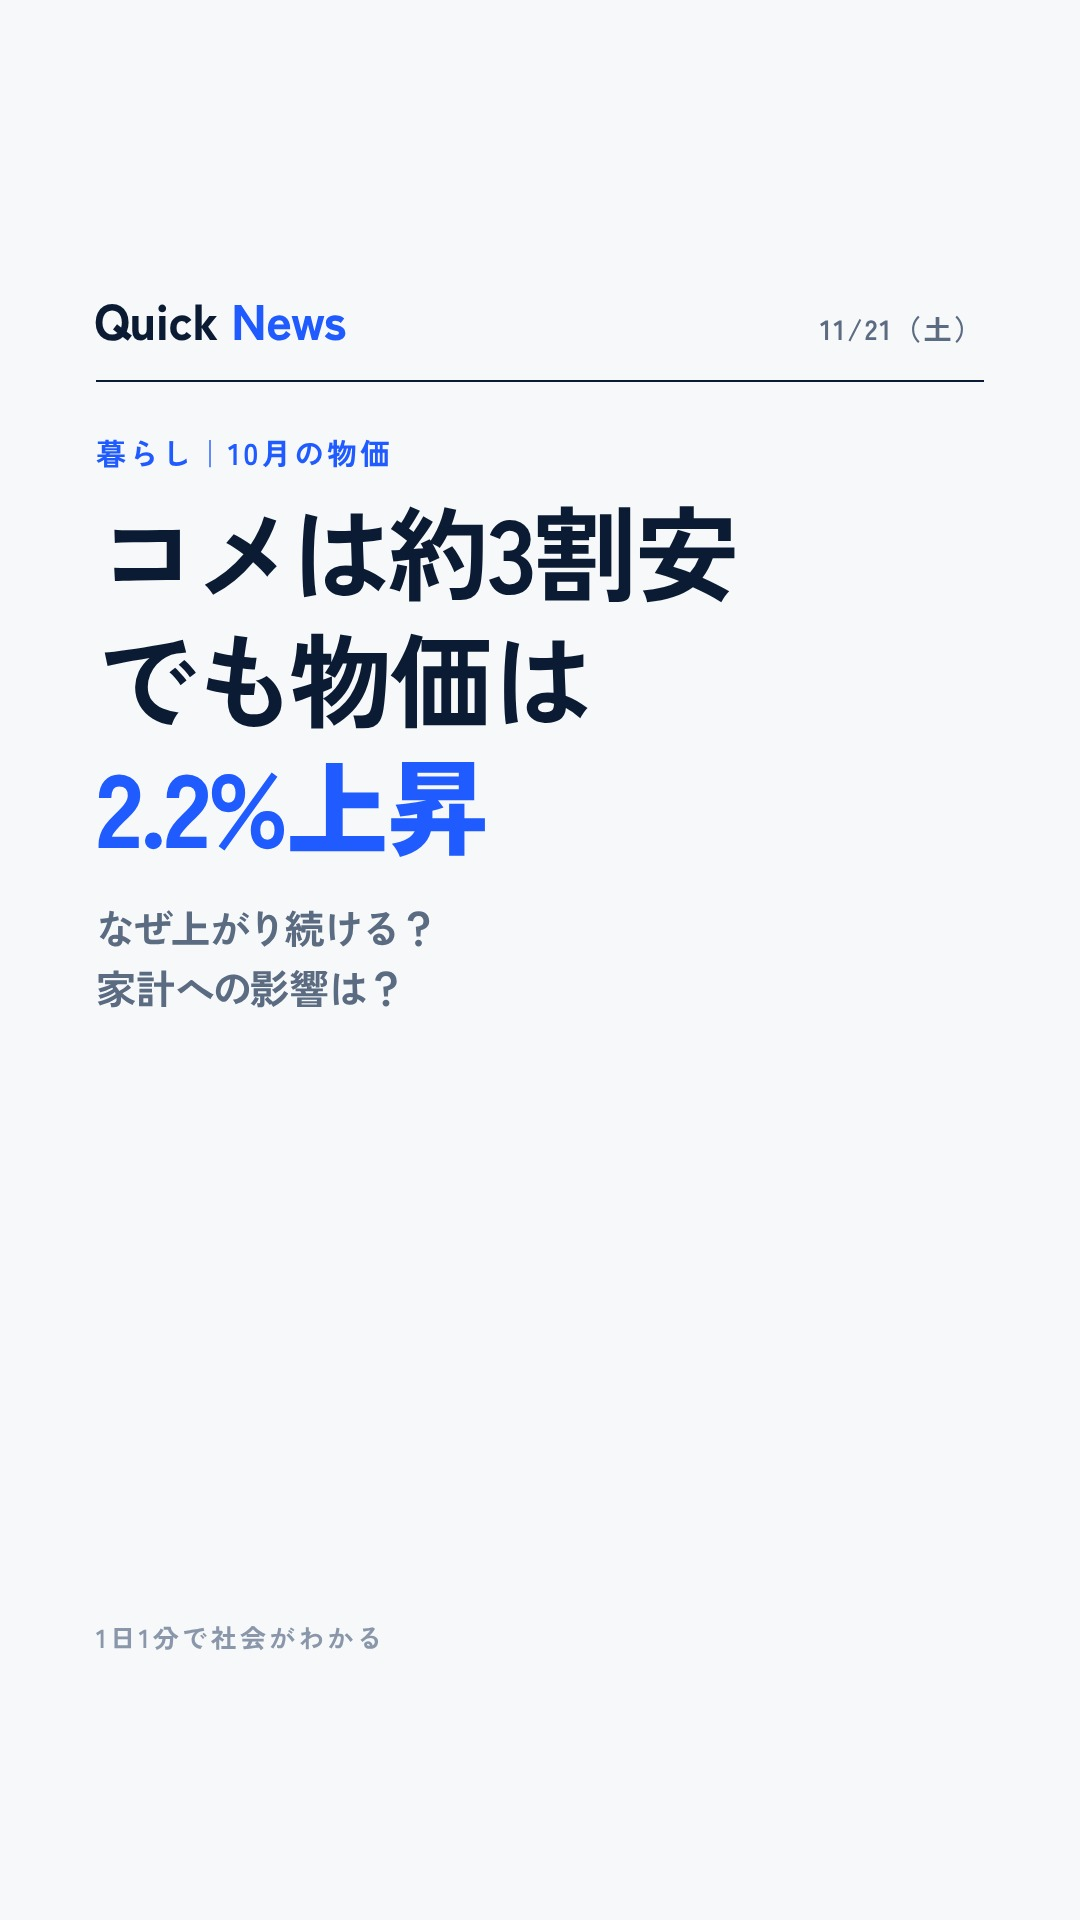
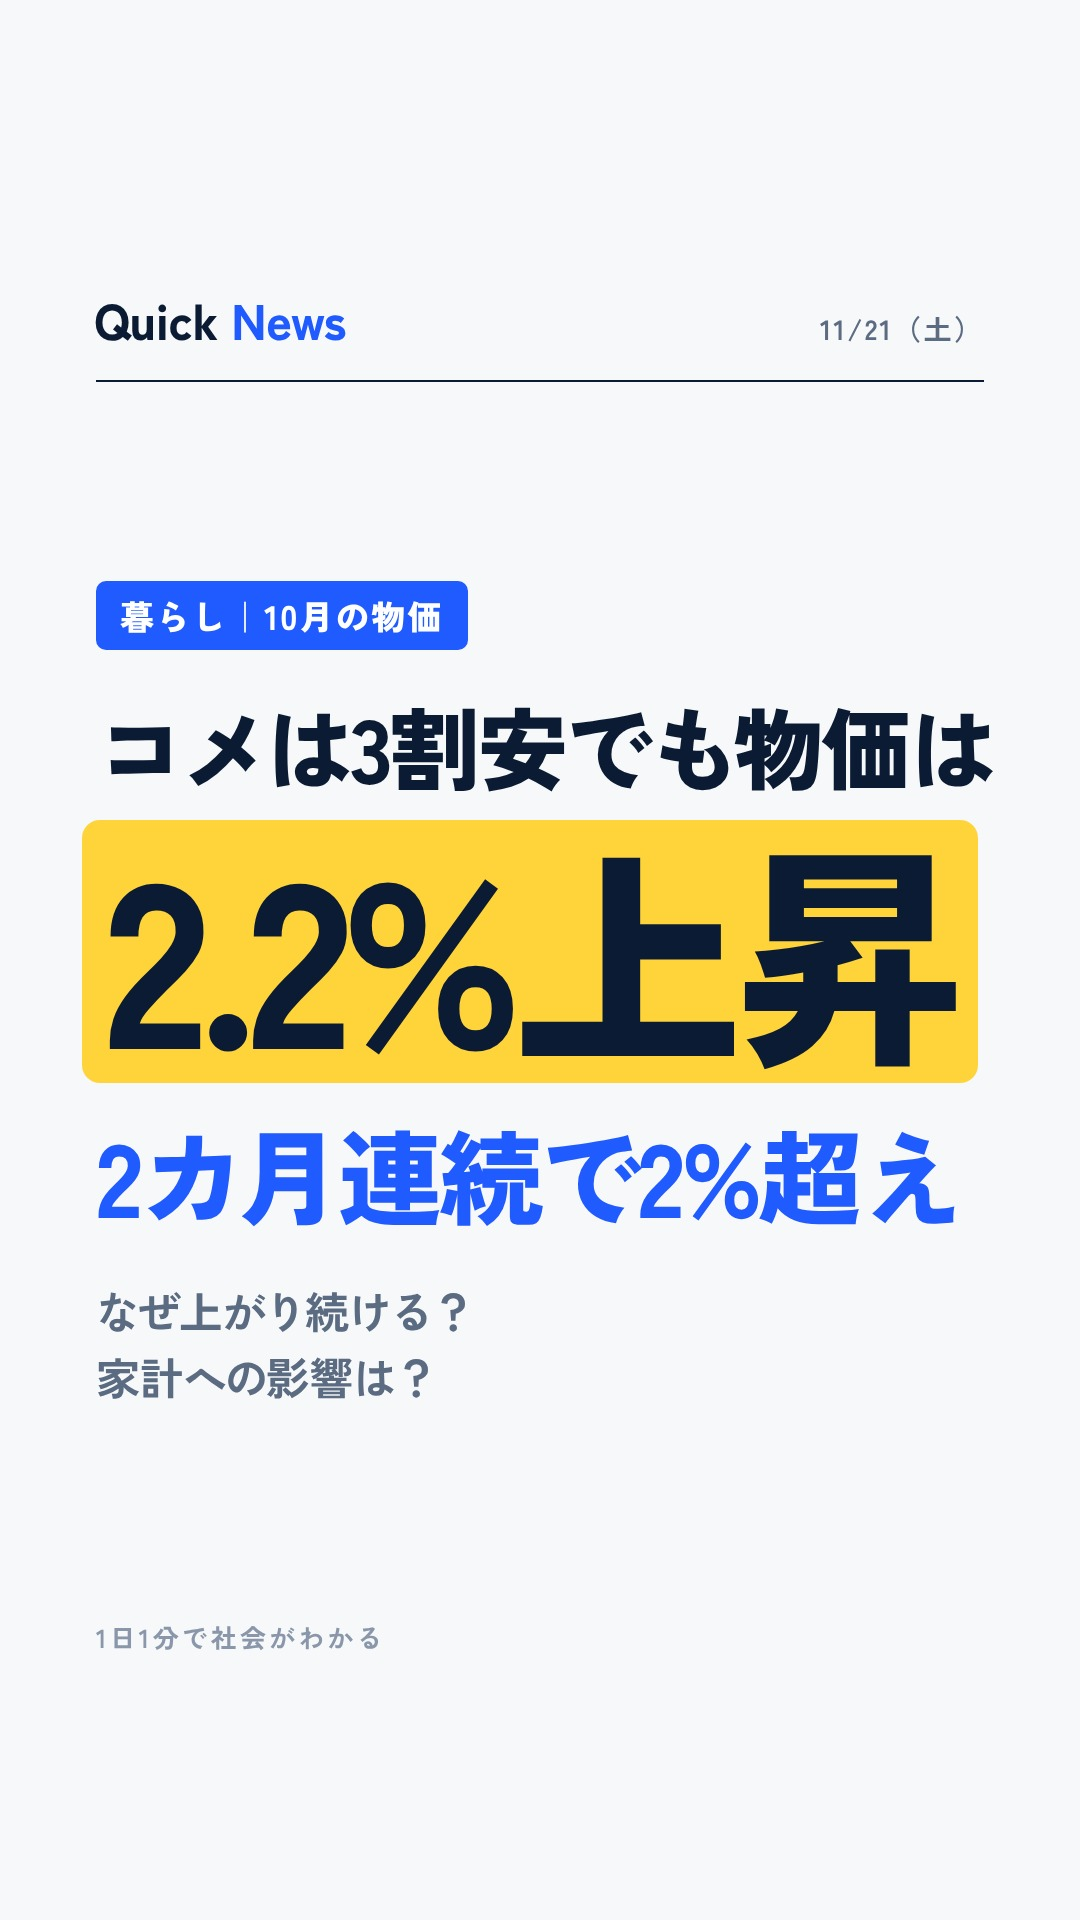
表紙を特大キーワード型に（cover.key：黄色の箱＋紺の文字）。2026-11-21 の3本の表紙を差し替え

Changed region(s): [[0.0611, 0.2188, 0.9167, 0.75]]

diff --git a/kit/tools/cover.py b/kit/tools/cover.py
@@ -48,7 +48,7 @@ body{{width:1080px;height:1920px;background:#F7F8FA;font-family:"Yu Gothic","Zen
 <div class="list">{rows}</div>
 <div class="ft">{esc(sc.get("tagline", "1日1分で社会がわかる"))}</div>
 </body></html>"""
-if single:   # 1本のニュースの表紙：大きな見出し＋補足の問い＋その話の地図
+if single and not sc["cover"].get("key"):   # 1本のニュースの表紙：大きな見出し＋補足の問い＋その話の地図
     cv = sc["cover"]
     lines = "".join(f'<span class="ln">{fmt(l)}</span>' for l in cv["title"].split("\n"))
     subl = "<br>".join(fmt(l) for l in cv.get("sub", "").split("\n"))
@@ -89,12 +89,40 @@ window.layoutMap=function(top,bottom){{const M={mp};if(!M)return;const svg=docum
   const t=ad('text',{{x:p[0],y:p[1]-34,'text-anchor':'middle','font-size':34,'font-weight':700,fill:'#0B1B33','font-family':'Zen Kaku Gothic New',stroke:'#F7F8FA','stroke-width':9,'paint-order':'stroke','stroke-linejoin':'round'}});t.textContent=l;}});
 }};
 </script></body></html>"""
+if single and sc["cover"].get("key"):   # 2026-11-21〜：重要な語を特大で（黄色の箱に紺の文字）。一覧の小さな表示でも読める
+    cv = sc["cover"]
+    subl = "<br>".join(fmt(l) for l in cv.get("sub", "").split("\n"))
+    page = f"""<!doctype html><html><head><meta charset="utf-8">{fl}<style>
+*{{margin:0;padding:0;box-sizing:border-box}}
+body{{width:1080px;height:1920px;background:#F7F8FA;font-family:"Yu Gothic","Zen Kaku Gothic New",sans-serif;color:#0B1B33;position:relative;overflow:hidden}}
+.top{{position:absolute;left:96px;right:96px;top:282px;display:flex;align-items:baseline;justify-content:space-between;padding-bottom:26px;border-bottom:2px solid #0B1B33}}
+.logo{{font-size:50px;font-weight:900;letter-spacing:-.01em;margin-left:-2px}}
+.logo i{{font-style:normal;color:#1F5BFF}}
+.dt{{font-size:28px;font-weight:700;letter-spacing:.08em;color:#5B6B82}}
+.wrap{{position:absolute;left:96px;right:96px;top:420px}}
+.lb{{display:inline-block;font-size:34px;font-weight:900;color:#fff;background:#1F5BFF;letter-spacing:.06em;padding:10px 24px;border-radius:10px}}
+.ld{{margin-top:44px;font-size:104px;font-weight:900;line-height:1.15;letter-spacing:-.03em;white-space:nowrap;width:max-content}}
+.key{{display:inline-block;margin-top:22px;margin-left:-14px;padding:6px 22px 14px;background:#FFD43B;color:#0B1B33;font-weight:900;font-size:250px;line-height:1.04;letter-spacing:-.05em;white-space:nowrap;border-radius:18px}}
+.tl{{margin-top:30px;font-size:104px;font-weight:900;line-height:1.15;letter-spacing:-.03em;white-space:nowrap;width:max-content;color:#1F5BFF}}
+.sub{{margin-top:44px;font-size:44px;font-weight:700;line-height:1.5;color:#5B6B82;letter-spacing:-.01em}}
+.kn{{letter-spacing:-.06em}}
+.ft{{position:absolute;left:96px;right:96px;top:1618px;font-size:26px;font-weight:700;color:#8A97AA;letter-spacing:.12em}}
+</style></head><body>
+<div class="top"><div class="logo">Quick <i>News</i></div><div class="dt">{d.month}/{d.day}（{wd}）</div></div>
+<div class="wrap"><div class="lb">{esc(cv.get("label", ""))}</div>
+<div class="ld">{fmt(cv.get("lead", ""))}</div><div class="key">{fmt(cv["key"])}</div><div class="tl">{fmt(cv.get("tail", ""))}</div>
+<div class="sub">{subl}</div></div>
+<div class="ft">{esc(sc.get("tagline", "1日1分で社会がわかる"))}</div></body></html>"""
+    single = "key"
 fn = os.path.join(os.path.dirname(os.path.abspath(out)), "_cover.html")
 open(fn, "w", encoding="utf-8").write(page)
 with sync_playwright() as pw:
     br = pw.chromium.launch(); pg = br.new_page(viewport={"width": 1080, "height": 1920})
     pg.goto("file://" + fn); pg.evaluate("document.fonts.ready"); pg.wait_for_timeout(400)
-    if single:
+    if single == "key":
+        pg.evaluate("""(()=>{const W=900,fit=(el,s,min)=>{while(el.getBoundingClientRect().width>W&&s>min){s-=2;el.style.fontSize=s+'px';}};
+          fit(document.querySelector('.key'),250,120);document.querySelectorAll('.ld,.tl').forEach(e=>fit(e,104,56));const w=document.querySelector('.wrap'),h=w.getBoundingClientRect().height;w.style.top=Math.max(420,420+(1570-420-h)/2)+'px';})()""")
+    elif single:
         pg.evaluate("""(()=>{const h=document.querySelector('.hl'),W=888;let s=104;
           while([...h.querySelectorAll('.ln')].some(l=>l.getBoundingClientRect().width>W)&&s>50){s-=1;h.style.fontSize=s+'px';}
           const sb=document.querySelector('.sub');sb.style.top=(h.getBoundingClientRect().bottom+30)+'px';
@@ -103,6 +131,6 @@ with sync_playwright() as pw:
     pg.evaluate("""(()=>{const hs=[...document.querySelectorAll('.hl')],W=888;let s=84;
       const over=()=>hs.some(h=>[...h.querySelectorAll('.ln')].some(l=>l.getBoundingClientRect().width>W));
       while(over()&&s>40){s-=1;hs.forEach(h=>h.style.fontSize=s+'px');}return s;})()""")
-    print("size", pg.evaluate("getComputedStyle(document.querySelector('.hl')).fontSize"))
+    print("size", pg.evaluate("(e=>e?getComputedStyle(e).fontSize:getComputedStyle(document.querySelector('.key')).fontSize)(document.querySelector('.hl'))"))
     pg.screenshot(path=out); br.close()
 os.remove(fn)
